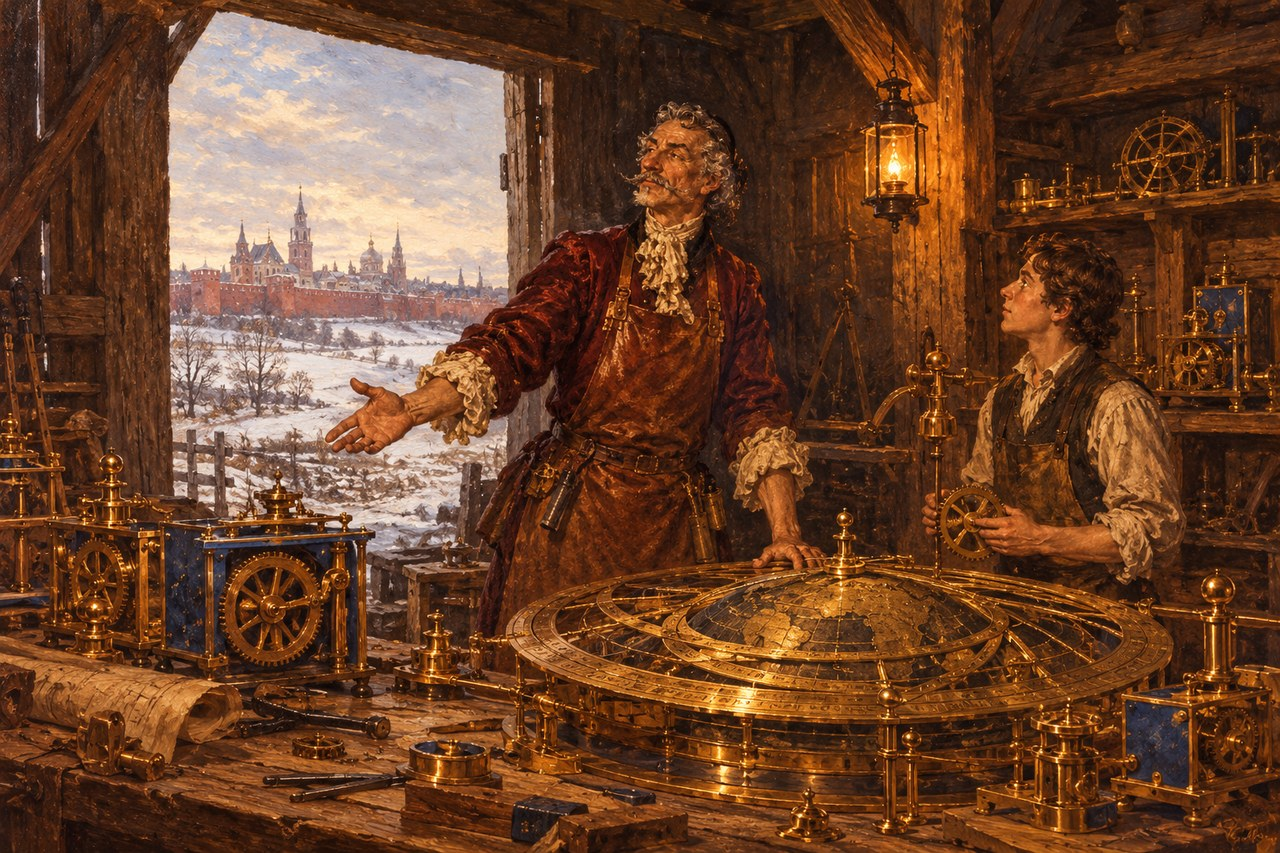
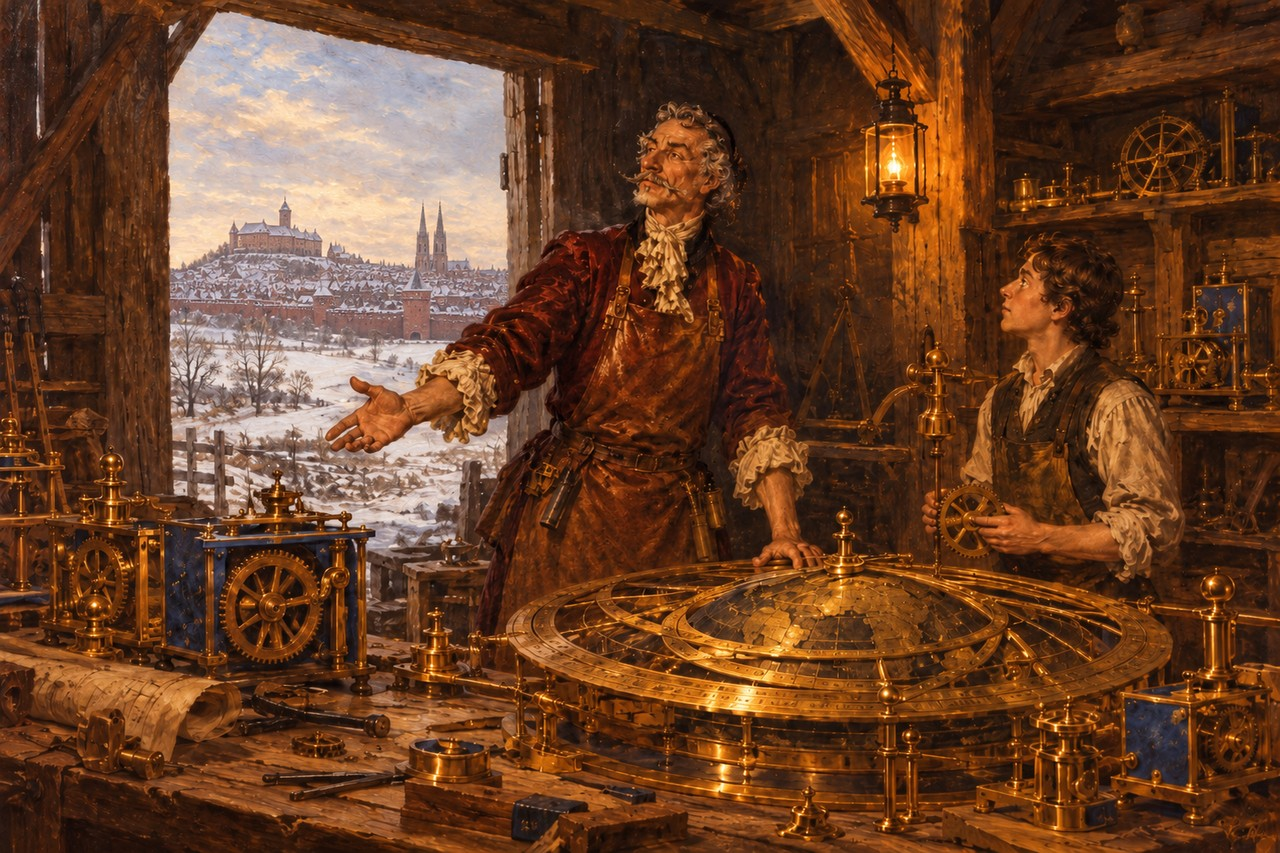
0.38.128: the campaign stills screened; a02_01 shows Nuremberg (not the Kremlin), a04_05 Hollweg stands on his feet (docs/stills_audit.md)
Claude-Session: https://claude.ai/code/session_01NtmEZhP1uA8k4DLQ7BYfMz

diff --git a/docs/stills_audit.md b/docs/stills_audit.md
@@ -1,0 +1,28 @@
+# Campaign stills audit (2026-11-22)
+
+The owner asked (2026-11-22 10:07) for every campaign still to be checked for hallucinations and imperfections, like
+the sprites. All 118 pictures in `campaign/stills/` (59 stills, each with its `_small` copy) were looked at, first on
+2x2 contact sheets, then every one at full size.
+
+## Fixed (0.38.128)
+
+- **a02_01 The Guild in Exile**: the city on the horizon through the barn door was the Moscow Kremlin (onion domes, a
+  long red crenellated wall), not Nuremberg. Repainted in ChatGPT as an edit of the same painting: the Kaiserburg on its
+  hill, the twin spires of St. Lorenz, the sandstone wall and gate towers. Nothing else changed.
+- **a04_05 The Broken Ones**: Hollweg stood sunk into the cobbles to the waist, with no legs. Repainted as an edit: he
+  stands on the cobbles in breeches, stockings and buckled shoes, the rest as it was.
+
+The originals before the edits are in git history (`art/campaign/stills/a02_01.png`, `a04_05.png`).
+
+## Looked at and kept
+
+The other 57 stills have no extra or missing limbs, doubled weapons, melted faces or garbled text at the size the game
+shows them. Small things noticed and left as they are:
+
+- The Crown's soldiers are drawn sometimes with steel morion helmets, sometimes with tricornes: the game's Guardsman
+  and Musketeer, so both are right.
+- a07_04 The Accused: a cardinal in red sits on the raised chair at the back. He is not the Pope (the Pope is never
+  shown); fine as drawn.
+- Small brass gear crates at the quay in a05_04 are the mission's one crate hint, as planned.
+- Hollweg's face and goggles drift a little between stills (the paintings were made in different ChatGPT accounts);
+  readable as the same man.

diff --git a/README.md b/README.md
@@ -2,7 +2,7 @@
 
 *(the game was called Holdfast until November 2026, but that name belongs to another game; the old address, holdfastrts.github.io/Holdfast/, stops working once the organization is renamed)*
 
-**Play in your browser (version 0.38.127): https://triumviwar.github.io/**
+**Play in your browser (version 0.38.128): https://triumviwar.github.io/**
 
 **Windows program: https://triumviwar.github.io/Triumviwar_windows.zip** (rebuilt on every push; unzip it and run Triumviwar.exe; if Windows warns "Windows protected your PC", click More info, then Run anyway)
 
